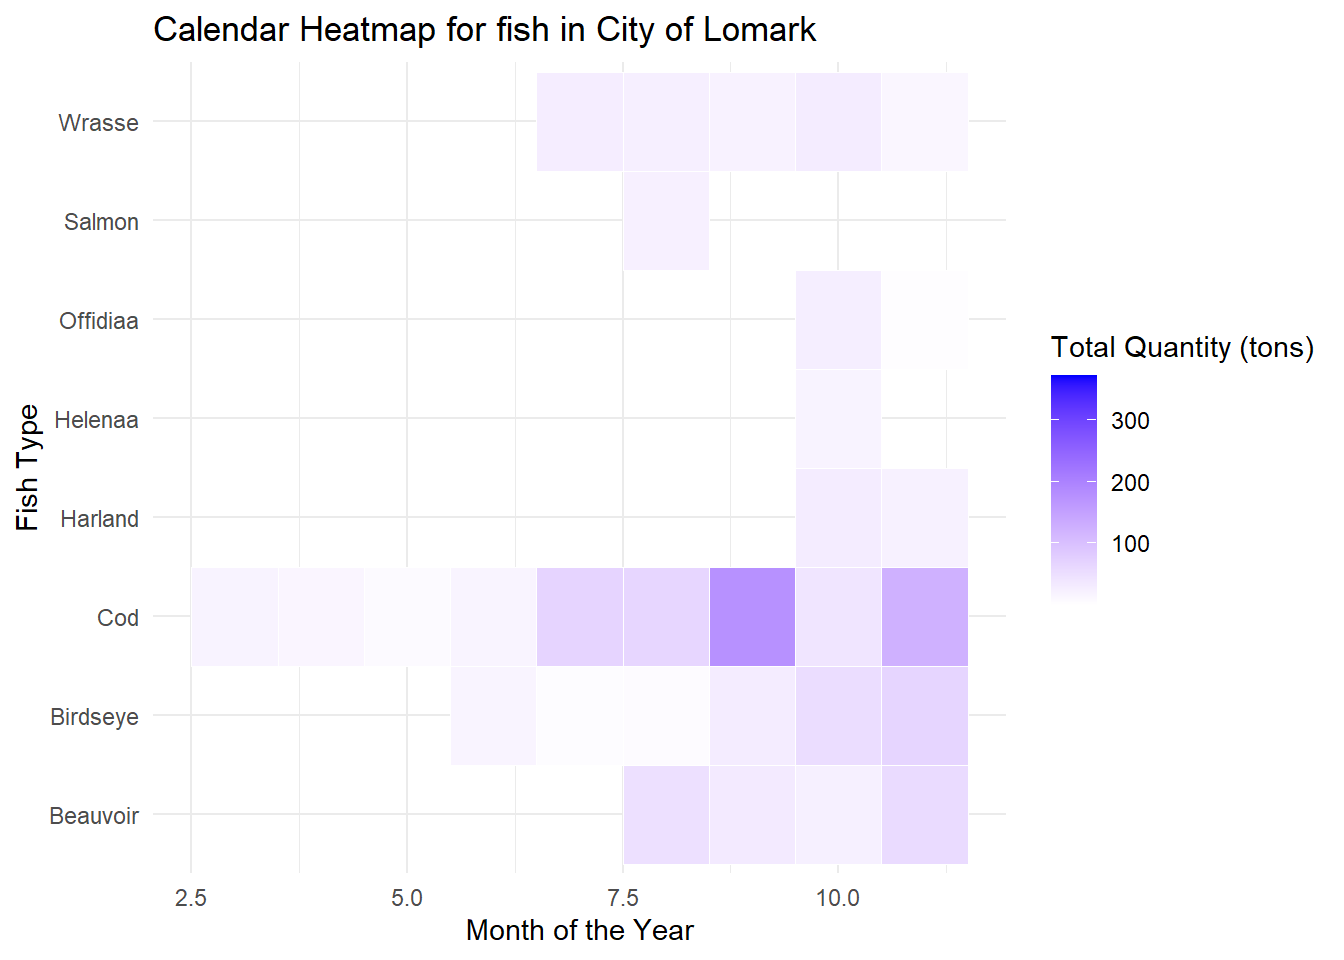
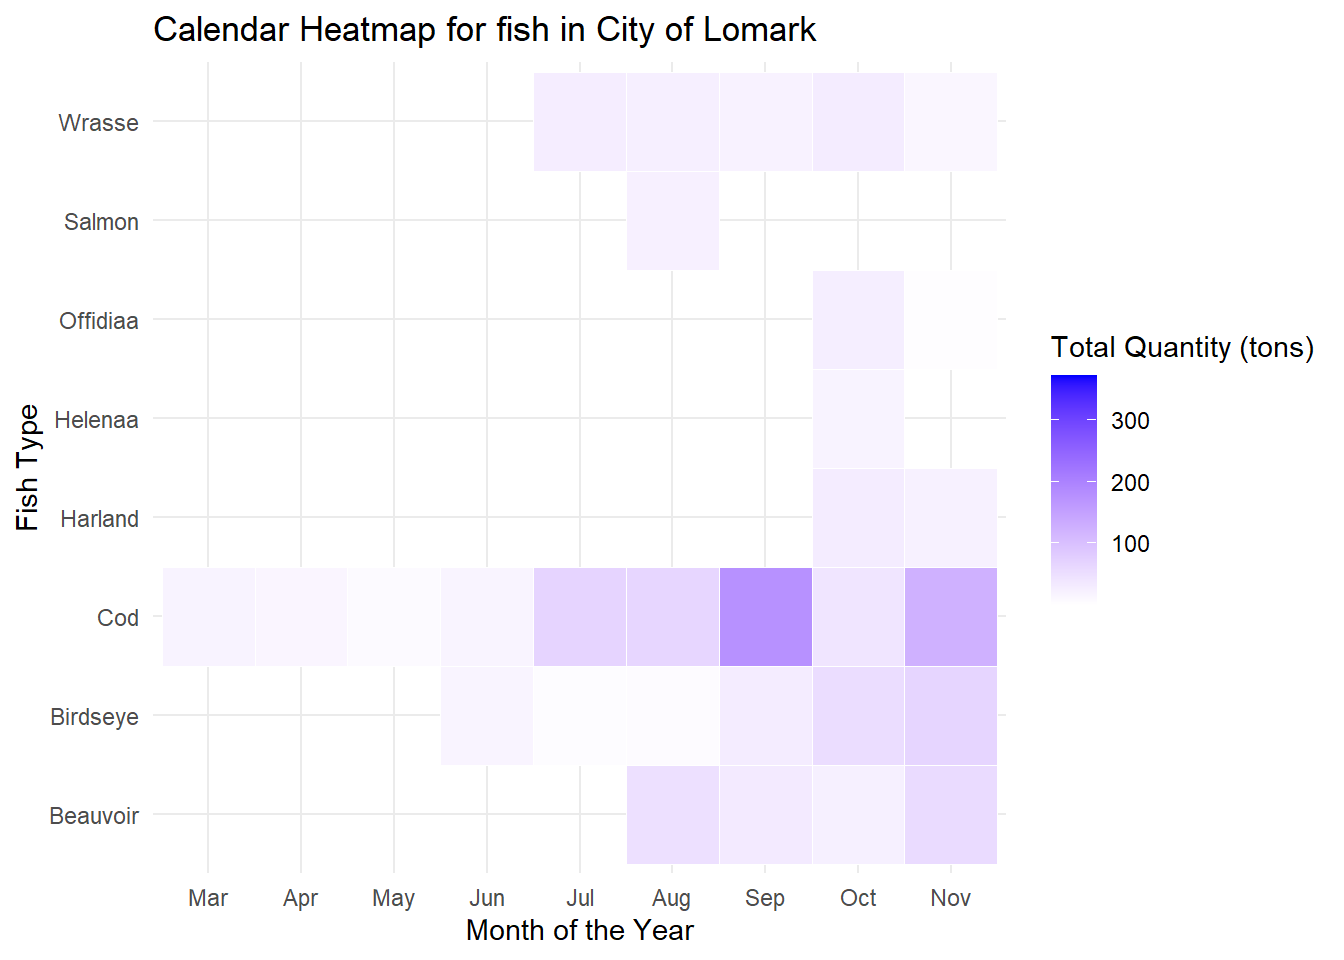
th3 2.3 commit

diff --git a/_site/Take-home Exercise/Take-home_Ex03/Take-home_Ex03.html b/_site/Take-home Exercise/Take-home_Ex03/Take-home_Ex03.html
@@ -315,7 +315,7 @@ pre > code.sourceCode > span > a:first-child::before { text-decoration: underlin
   <li><a href="#task-1-flow-of-commercially-caught-fish" id="toc-task-1-flow-of-commercially-caught-fish" class="nav-link" data-scroll-target="#task-1-flow-of-commercially-caught-fish">2.0 Task 1: Flow of Commercially Caught Fish</a></li>
   <li><a href="#associating-the-vessels-with-their-probable-cargoes" id="toc-associating-the-vessels-with-their-probable-cargoes" class="nav-link" data-scroll-target="#associating-the-vessels-with-their-probable-cargoes">2.1 Associating the vessels with their probable cargoes</a></li>
   <li><a href="#examine-the-seasonal-trends-and-anomalies-in-the-port-exit-records" id="toc-examine-the-seasonal-trends-and-anomalies-in-the-port-exit-records" class="nav-link" data-scroll-target="#examine-the-seasonal-trends-and-anomalies-in-the-port-exit-records">2.3 Examine the seasonal trends and anomalies in the port exit records</a></li>
-  <li><a href="#understanding-the-types-of-fish-that-should-be-in-the-market" id="toc-understanding-the-types-of-fish-that-should-be-in-the-market" class="nav-link" data-scroll-target="#understanding-the-types-of-fish-that-should-be-in-the-market">2.3.1 <strong>Understanding the types of fish that should be in the market</strong></a></li>
+  <li><a href="#understanding-the-types-of-fish-that-should-not-be-in-the-market" id="toc-understanding-the-types-of-fish-that-should-not-be-in-the-market" class="nav-link" data-scroll-target="#understanding-the-types-of-fish-that-should-not-be-in-the-market">2.3.1 <strong>Understanding the types of fish that should not be in the market</strong></a></li>
   </ul></li>
   </ul>
 </nav>
@@ -887,15 +887,18 @@ $ fish_species_present &lt;list&gt; &lt;NULL&gt;, &lt;NULL&gt;, &lt;NULL&gt;, &l
 <span id="cb42-3"><a href="#cb42-3" aria-hidden="true" tabindex="-1"></a>  <span class="fu">filter</span>(qty_tons <span class="sc">&gt;</span> <span class="dv">0</span>) <span class="sc">%&gt;%</span> </span>
 <span id="cb42-4"><a href="#cb42-4" aria-hidden="true" tabindex="-1"></a>  <span class="fu">group_by</span>(name, city, date) <span class="sc">%&gt;%</span></span>
 <span id="cb42-5"><a href="#cb42-5" aria-hidden="true" tabindex="-1"></a>  <span class="fu">summarise</span>(<span class="at">total_qty_ton =</span> <span class="fu">sum</span>(qty_tons)) <span class="sc">%&gt;%</span></span>
-<span id="cb42-6"><a href="#cb42-6" aria-hidden="true" tabindex="-1"></a>  <span class="fu">ungroup</span>() <span class="sc">%&gt;%</span></span>
-<span id="cb42-7"><a href="#cb42-7" aria-hidden="true" tabindex="-1"></a>  <span class="fu">mutate</span>(<span class="at">month =</span> <span class="fu">month</span>(date)) </span></code><button title="Copy to Clipboard" class="code-copy-button"><i class="bi"></i></button></pre></div>
+<span id="cb42-6"><a href="#cb42-6" aria-hidden="true" tabindex="-1"></a>  <span class="fu">ungroup</span>() <span class="sc">%&gt;%</span> </span>
+<span id="cb42-7"><a href="#cb42-7" aria-hidden="true" tabindex="-1"></a>  <span class="fu">mutate</span>(<span class="at">month =</span> <span class="fu">month</span>(date, </span>
+<span id="cb42-8"><a href="#cb42-8" aria-hidden="true" tabindex="-1"></a>                       <span class="at">label =</span> <span class="cn">TRUE</span>, </span>
+<span id="cb42-9"><a href="#cb42-9" aria-hidden="true" tabindex="-1"></a>                       <span class="at">abbr =</span> <span class="cn">TRUE</span>))</span></code><button title="Copy to Clipboard" class="code-copy-button"><i class="bi"></i></button></pre></div>
 </div>
+<p>Secondly, when we observe the heatmap, we also realised that the data only covers the month from Feb to Nov in year 2035.</p>
 <div class="cell">
 <div class="sourceCode cell-code" id="cb43"><pre class="sourceCode r code-with-copy"><code class="sourceCode r"><span id="cb43-1"><a href="#cb43-1" aria-hidden="true" tabindex="-1"></a><span class="co"># Create an overall Oceanus heat map for all types of fish</span></span>
 <span id="cb43-2"><a href="#cb43-2" aria-hidden="true" tabindex="-1"></a>fish_agg <span class="ot">&lt;-</span> fish_by_port_agg  <span class="sc">%&gt;%</span></span>
 <span id="cb43-3"><a href="#cb43-3" aria-hidden="true" tabindex="-1"></a>  <span class="fu">distinct</span>() <span class="sc">%&gt;%</span></span>
 <span id="cb43-4"><a href="#cb43-4" aria-hidden="true" tabindex="-1"></a>  <span class="fu">group_by</span>(name,month) <span class="sc">%&gt;%</span></span>
-<span id="cb43-5"><a href="#cb43-5" aria-hidden="true" tabindex="-1"></a>  <span class="fu">summarise</span>(<span class="at">total_qty_ton =</span> <span class="fu">sum</span>(total_qty_ton))</span>
+<span id="cb43-5"><a href="#cb43-5" aria-hidden="true" tabindex="-1"></a>  <span class="fu">summarise</span>(<span class="at">total_qty_ton =</span> <span class="fu">sum</span>(total_qty_ton)) </span>
 <span id="cb43-6"><a href="#cb43-6" aria-hidden="true" tabindex="-1"></a></span>
 <span id="cb43-7"><a href="#cb43-7" aria-hidden="true" tabindex="-1"></a><span class="fu">ggplot</span>(fish_agg, <span class="fu">aes</span>(<span class="at">x =</span> month, <span class="at">y =</span> name, <span class="at">fill =</span> total_qty_ton)) <span class="sc">+</span></span>
 <span id="cb43-8"><a href="#cb43-8" aria-hidden="true" tabindex="-1"></a>    <span class="fu">geom_tile</span>(<span class="at">color =</span> <span class="st">"white"</span>) <span class="sc">+</span></span>
@@ -985,8 +988,8 @@ $ fish_species_present &lt;list&gt; &lt;NULL&gt;, &lt;NULL&gt;, &lt;NULL&gt;, &l
 </div>
 </div>
 </section>
-<section id="understanding-the-types-of-fish-that-should-be-in-the-market" class="level2">
-<h2 class="anchored" data-anchor-id="understanding-the-types-of-fish-that-should-be-in-the-market">2.3.1 <strong>Understanding the types of fish that should be in the market</strong></h2>
+<section id="understanding-the-types-of-fish-that-should-not-be-in-the-market" class="level2">
+<h2 class="anchored" data-anchor-id="understanding-the-types-of-fish-that-should-not-be-in-the-market">2.3.1 <strong>Understanding the types of fish that should not be in the market</strong></h2>
 <div class="cell">
 <div class="sourceCode cell-code" id="cb46"><pre class="sourceCode r code-with-copy"><code class="sourceCode r"><span id="cb46-1"><a href="#cb46-1" aria-hidden="true" tabindex="-1"></a>region_fish_species <span class="ot">&lt;-</span> mc2_nodes <span class="sc">%&gt;%</span> </span>
 <span id="cb46-2"><a href="#cb46-2" aria-hidden="true" tabindex="-1"></a>  <span class="fu">filter</span>(entity3 <span class="sc">==</span> <span class="st">"Region"</span>) <span class="sc">%&gt;%</span> </span>
@@ -1143,6 +1146,32 @@ $ fish_species_present &lt;list&gt; &lt;NULL&gt;, &lt;NULL&gt;, &lt;NULL&gt;, &l
 </div>
 </div>
 </div>
+<div class="cell">
+<div class="sourceCode cell-code" id="cb54"><pre class="sourceCode r code-with-copy"><code class="sourceCode r"><span id="cb54-1"><a href="#cb54-1" aria-hidden="true" tabindex="-1"></a><span class="co"># Create an overall Oceanus heat map for all types of fish</span></span>
+<span id="cb54-2"><a href="#cb54-2" aria-hidden="true" tabindex="-1"></a>fish_agg <span class="ot">&lt;-</span> fish_by_port_agg  <span class="sc">%&gt;%</span> </span>
+<span id="cb54-3"><a href="#cb54-3" aria-hidden="true" tabindex="-1"></a>  <span class="fu">filter</span>(name <span class="sc">%in%</span> <span class="fu">c</span>(<span class="st">"Sockfish"</span>, <span class="st">"Offidiaa"</span>, <span class="st">"Helenaa"</span>)) <span class="sc">%&gt;%</span> </span>
+<span id="cb54-4"><a href="#cb54-4" aria-hidden="true" tabindex="-1"></a>  <span class="fu">distinct</span>() <span class="sc">%&gt;%</span></span>
+<span id="cb54-5"><a href="#cb54-5" aria-hidden="true" tabindex="-1"></a>  <span class="fu">group_by</span>(name,month) <span class="sc">%&gt;%</span></span>
+<span id="cb54-6"><a href="#cb54-6" aria-hidden="true" tabindex="-1"></a>  <span class="fu">summarise</span>(<span class="at">total_qty_ton =</span> <span class="fu">sum</span>(total_qty_ton))</span>
+<span id="cb54-7"><a href="#cb54-7" aria-hidden="true" tabindex="-1"></a></span>
+<span id="cb54-8"><a href="#cb54-8" aria-hidden="true" tabindex="-1"></a><span class="fu">ggplot</span>(fish_agg, <span class="fu">aes</span>(<span class="at">x =</span> month, <span class="at">y =</span> name, <span class="at">fill =</span> total_qty_ton)) <span class="sc">+</span></span>
+<span id="cb54-9"><a href="#cb54-9" aria-hidden="true" tabindex="-1"></a>    <span class="fu">geom_tile</span>(<span class="at">color =</span> <span class="st">"white"</span>) <span class="sc">+</span></span>
+<span id="cb54-10"><a href="#cb54-10" aria-hidden="true" tabindex="-1"></a>    <span class="fu">scale_fill_gradient</span>(<span class="at">low =</span> <span class="st">"white"</span>, <span class="at">high =</span> <span class="st">"blue"</span>) <span class="sc">+</span></span>
+<span id="cb54-11"><a href="#cb54-11" aria-hidden="true" tabindex="-1"></a>    <span class="fu">labs</span>(<span class="at">title =</span> <span class="fu">paste</span>(<span class="st">"Calendar Heatmap for fish in Oceanus"</span>),</span>
+<span id="cb54-12"><a href="#cb54-12" aria-hidden="true" tabindex="-1"></a>         <span class="at">x =</span> <span class="st">"Month of the Year"</span>,</span>
+<span id="cb54-13"><a href="#cb54-13" aria-hidden="true" tabindex="-1"></a>         <span class="at">y =</span> <span class="st">"Fish Type"</span>,</span>
+<span id="cb54-14"><a href="#cb54-14" aria-hidden="true" tabindex="-1"></a>         <span class="at">fill =</span> <span class="st">"Total Quantity (tons)"</span>) <span class="sc">+</span></span>
+<span id="cb54-15"><a href="#cb54-15" aria-hidden="true" tabindex="-1"></a>    <span class="fu">theme_minimal</span>()</span></code><button title="Copy to Clipboard" class="code-copy-button"><i class="bi"></i></button></pre></div>
+<div class="cell-output-display">
+<div>
+<figure class="figure">
+<p><img src="Take-home_Ex03_files/figure-html/unnamed-chunk-39-1.png" class="img-fluid figure-img" width="672"></p>
+</figure>
+</div>
+</div>
+</div>
+<p>From this heatmap above, we understand that there is an abnormal increase in Sockfish catch from May onwards, and abnormal increase in Offidiaa catch from September onwards , which are species unique to the Don Limpet Preserve and Ghoti Preserve respectively.</p>
+<p>Probable reason for this is that since SouthSeafood Express Corp was caught in mid-May for illegal fishing in Ghoti Preserve, other illegal fishing vessels made a switch to Don Limpet Reserves to fish.</p>
 
 
 </section>
